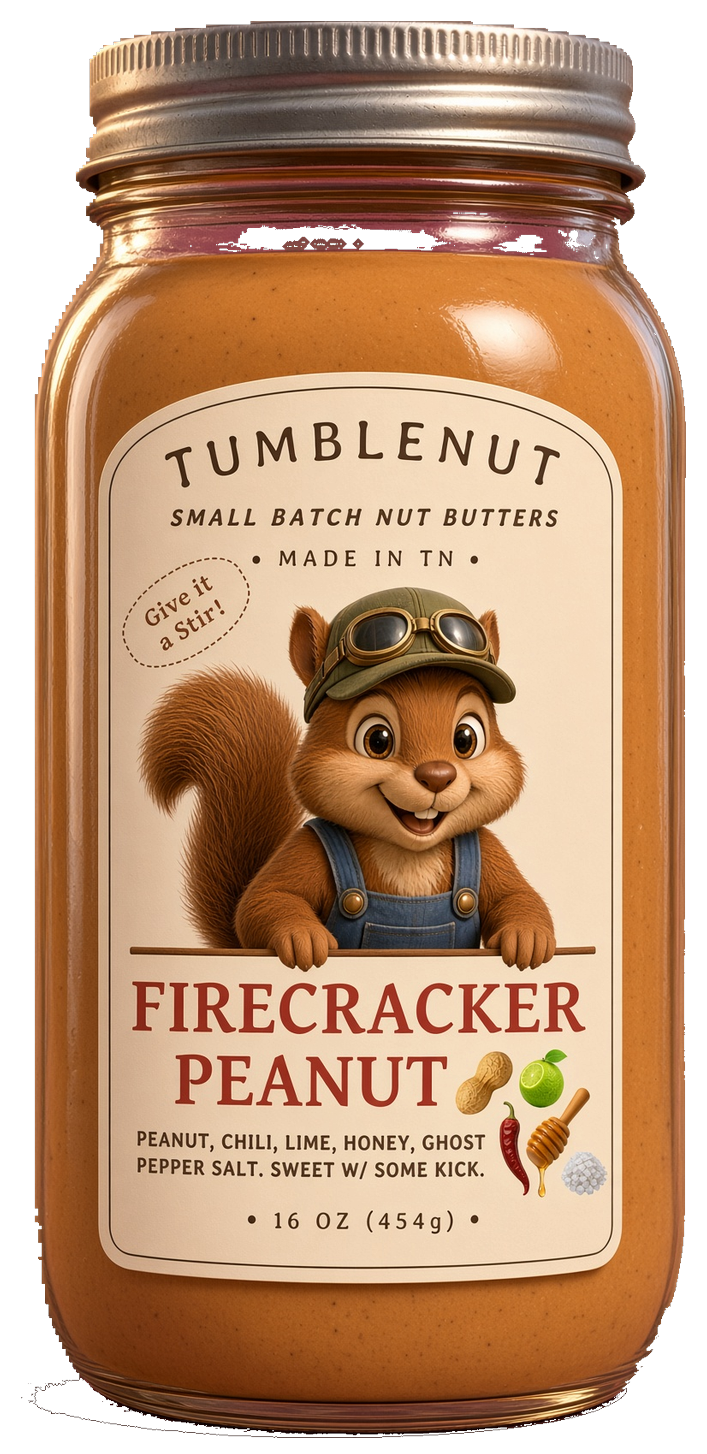
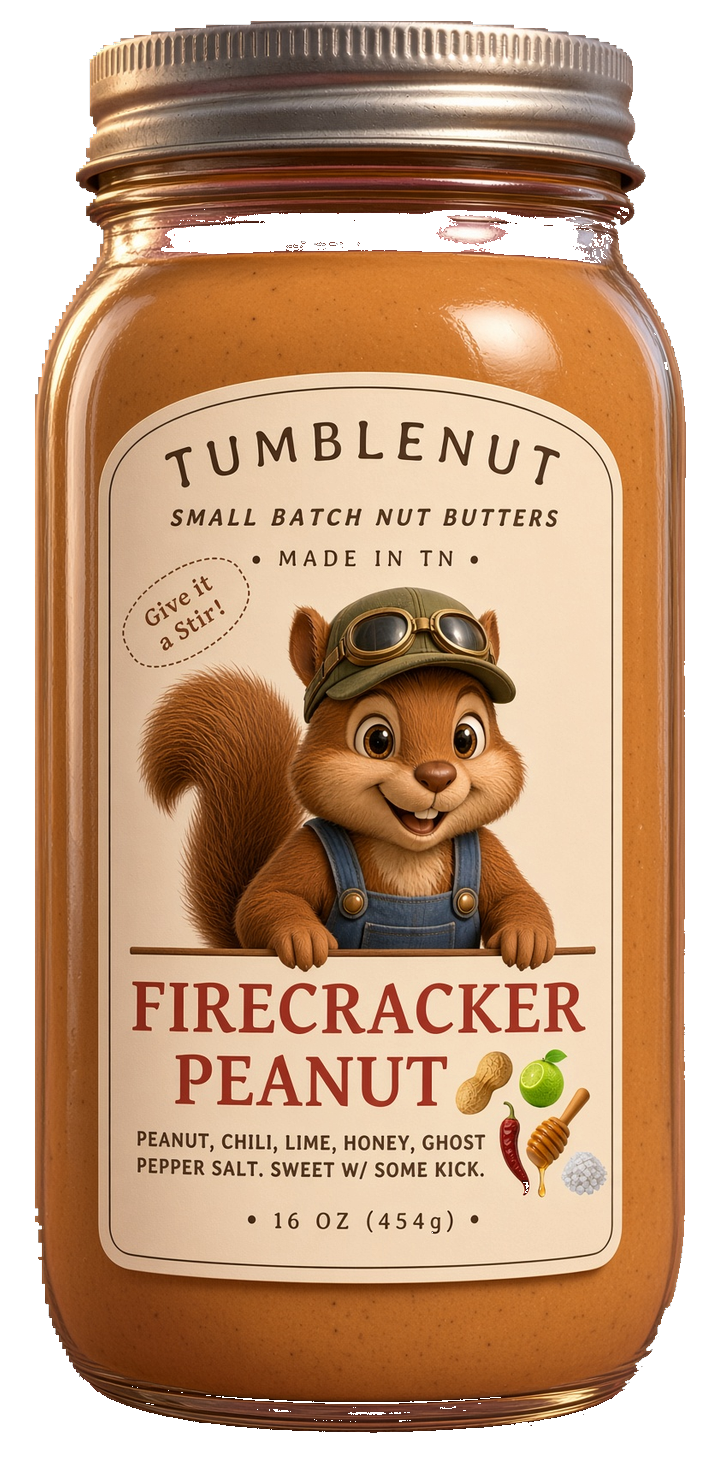
Fix 4-pack remove buttons and swap in magenta-cleaned jar renders
The x badges were unclickable for 1-3 jars because the per-slot rotated
span (rotate+scale transform) opens its own stacking context, trapping
the button's z-index under whichever neighbouring slot painted later --
removing zIndex from the <li> alone wasn't enough. The remove buttons
now render in a second <ul> painted after the jar list, sharing the
same slot geometry but with one z-index on the whole overlay layer
instead of one per slot, so every x wins its hit test regardless of
which neighbour is on top.

Swapped in Grok's magenta-artifact-cleaned renders for the six affected
jars (Pumpkin Patch was already clean), re-cropped to match the
existing dead-transparent-margin convention so the layout fix from
dc3647f isn't lost.

diff --git a/src/components/buck/ThreePack.tsx b/src/components/buck/ThreePack.tsx
@@ -200,29 +200,28 @@ export function ThreePack() {
                          jars twice the size, and four at that size do not fit
                          the circle side by side -- theirs overlap for the same
                          reason. Each slot but the first pulls left over its
-                         neighbour, and the stacking order runs left-to-right so
-                         the overlap reads as a row on a shelf. */
+                         neighbour, and paint order runs left-to-right (plain
+                         DOM order -- no zIndex needed here) so the overlap
+                         reads as a row on a shelf. */
                       className="relative flex h-full items-end justify-center"
-                      style={{
-                        width: `${Math.min(50, 168 / PACK_SIZE)}%`,
-                        marginLeft: i === 0 ? 0 : "-10%",
-                        zIndex: i,
-                      }}
+                      style={slotStyle(i)}
                     >
                       {p ? (
-                        /* The button wraps the jar rather than floating over the
-                           slot, so the × sits on THIS jar's shoulder whatever
-                           height it is. Anchored to the slot instead, it landed
-                           on the neighbour when a 4oz sat beside a 16oz. */
-                        <span
-                          className="relative inline-flex items-end origin-bottom"
-                          /* A small alternating tilt, like theirs. Rotated
-                             about the BASE so the jars still stand on the
-                             shared baseline instead of swinging off it. */
-                          style={{
-                            transform: `rotate(${TILTS[i % TILTS.length]}deg) scale(${DEPTH[i % DEPTH.length]})`,
-                          }}
-                        >
+                        /* Just the jar here, rotated as a rigid unit. The
+                           remove button used to live inside this same
+                           rotated span, but `transform` always opens its own
+                           stacking context, and that trapped the button's
+                           z-index under whichever *slot* (not descendant)
+                           painted later -- z-20 only wins fights inside its
+                           own stacking context, and one span per jar meant
+                           one context per jar. Slot i's × couldn't rise above
+                           slot i+1's jar no matter what z-index it carried.
+                           The remove-button overlay below duplicates this
+                           same rotated span, but as its own layer that paints
+                           after every jar here, so the fix is "escape the
+                           context" rather than "win a z-index fight that
+                           can't be won from inside it". */
+                        <span className="relative inline-flex items-end origin-bottom" style={slotTiltStyle(i)}>
                           <img
                             src={p.jar}
                             alt={`${p.name}, position ${i + 1} of ${PACK_SIZE}`}
@@ -230,11 +229,53 @@ export function ThreePack() {
                             height={640}
                             className="h-auto max-h-full w-full object-contain object-bottom drop-shadow-[0_18px_28px_rgba(0,0,0,0.55)]"
                           />
+                        </span>
+                      ) : (
+                        <JarOutline />
+                      )}
+                    </li>
+                  );
+                })}
+              </ul>
+
+              {/* Remove-button overlay: the same slot geometry as the jar
+                  list above (same slotStyle/slotTiltStyle per index), but a
+                  separate <ul> painted after it with one z-index on the
+                  whole layer instead of one per slot. That's what lets every
+                  × win its hit test regardless of which neighbouring jar
+                  would otherwise sit on top of it -- see the long comment
+                  above. `pointer-events-none` on the layer means clicks miss
+                  everywhere except the buttons themselves, which opt back in
+                  with `pointer-events-auto`, so picking a jar on the left
+                  panel and hovering the slots underneath still work
+                  untouched. The invisible jar image in each slot exists only
+                  to reproduce the real jar's rendered height, so the ×
+                  lands on THIS jar's shoulder and not a fixed offset that's
+                  wrong for a 4oz sitting where a 16oz used to be. */}
+              {picked.length > 0 ? (
+                <ul
+                  aria-hidden="true"
+                  className="pointer-events-none absolute inset-x-0 top-[9%] z-30 flex h-[58%] items-end justify-center px-[7%]"
+                >
+                  {Array.from({ length: PACK_SIZE }).map((_, i) => {
+                    const slug = picked[i];
+                    const p = slug ? products.find((x) => x.slug === slug) : undefined;
+                    if (!p) return <li key={i} style={slotStyle(i)} />;
+                    return (
+                      <li key={i} className="relative flex h-full items-end justify-center" style={slotStyle(i)}>
+                        <span className="relative inline-flex items-end origin-bottom" style={slotTiltStyle(i)}>
+                          <img
+                            src={p.jar}
+                            alt=""
+                            width={400}
+                            height={640}
+                            className="invisible h-auto max-h-full w-full object-contain object-bottom"
+                          />
                           <button
                             type="button"
                             onClick={() => removeAt(i)}
                             aria-label={`Remove ${p.name} from the ${PACK_SIZE} pack`}
-                            className="absolute -top-2.5 -right-2 z-20 flex size-7 items-center justify-center rounded-full bg-[#fbf3e4] text-[#1c120a] shadow-md transition hover:bg-white"
+                            className="pointer-events-auto absolute -top-2.5 -right-2 flex size-7 items-center justify-center rounded-full bg-[#fbf3e4] text-[#1c120a] shadow-md transition hover:bg-white"
                           >
                             <svg width="12" height="12" viewBox="0 0 24 24" aria-hidden="true">
                               <path
@@ -246,13 +287,11 @@ export function ThreePack() {
                             </svg>
                           </button>
                         </span>
-                      ) : (
-                        <JarOutline />
-                      )}
-                    </li>
-                  );
-                })}
-              </ul>
+                      </li>
+                    );
+                  })}
+                </ul>
+              ) : null}
 
               {/* The CTA sits inside the circle on theirs. It counts down while
                   the pack is short, and only becomes a buy button when full. */}
@@ -325,6 +364,18 @@ const TILTS = [-5, 3, -3, 6];
  * size and reads as depth rather than as a fix. Theirs does the same thing.
  */
 const DEPTH = [0.82, 1, 1, 0.82];
+
+/** Shared slot geometry so the jar layer and the remove-button overlay stay
+ *  pixel-identical -- both read from the same two functions per index. */
+function slotStyle(i: number) {
+  return {
+    width: `${Math.min(50, 168 / PACK_SIZE)}%`,
+    marginLeft: i === 0 ? 0 : "-10%",
+  };
+}
+function slotTiltStyle(i: number) {
+  return { transform: `rotate(${TILTS[i % TILTS.length]}deg) scale(${DEPTH[i % DEPTH.length]})` };
+}
 
 function JarOutline() {
   return (
